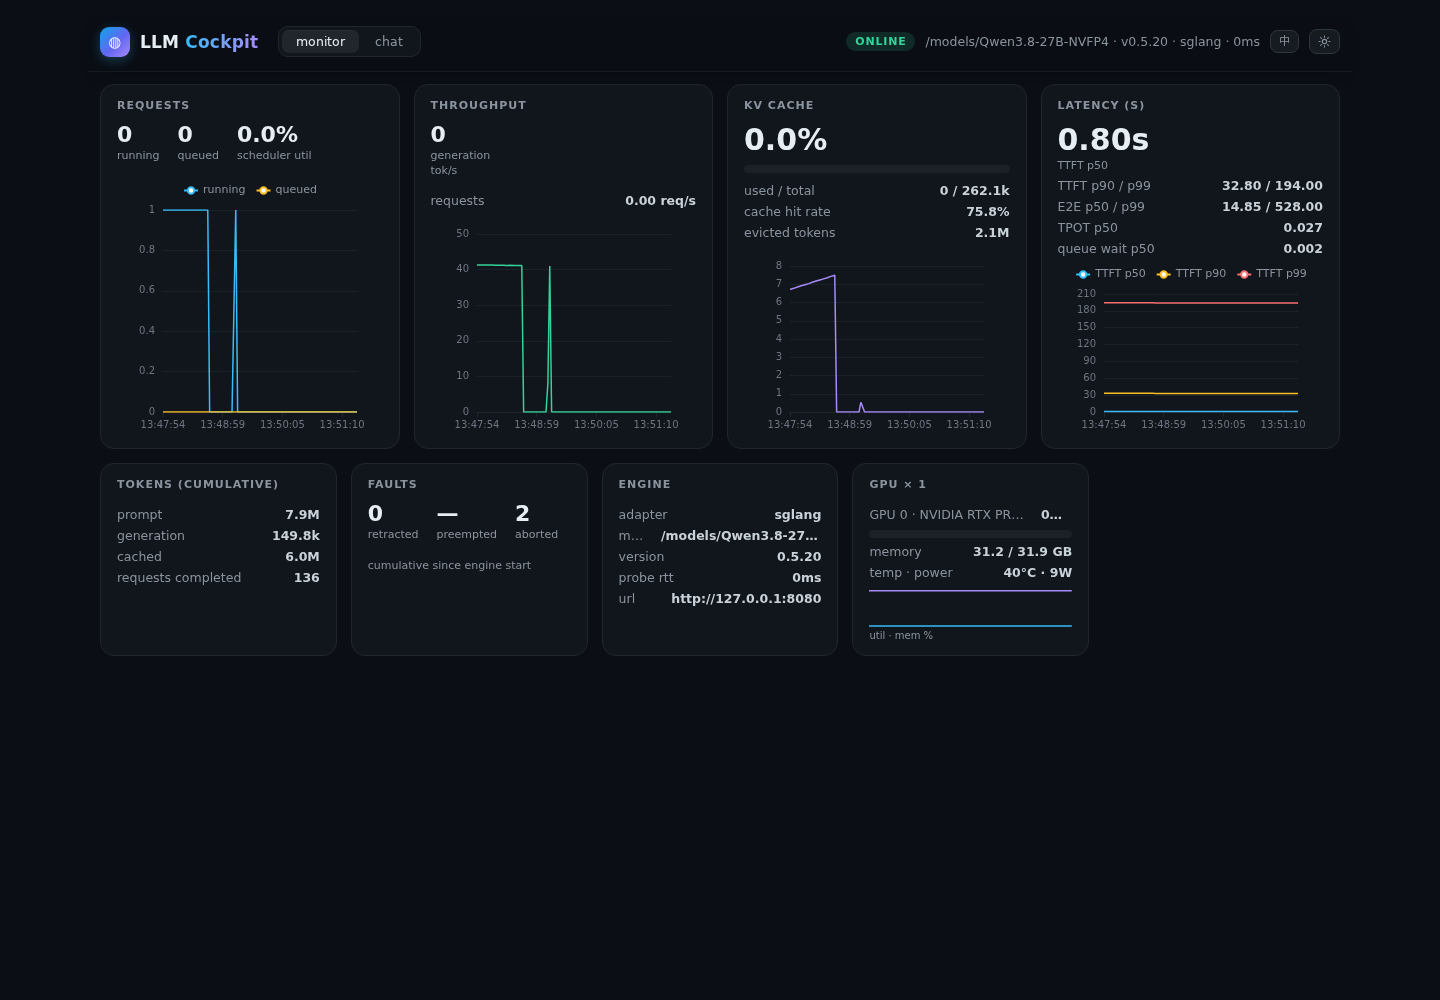
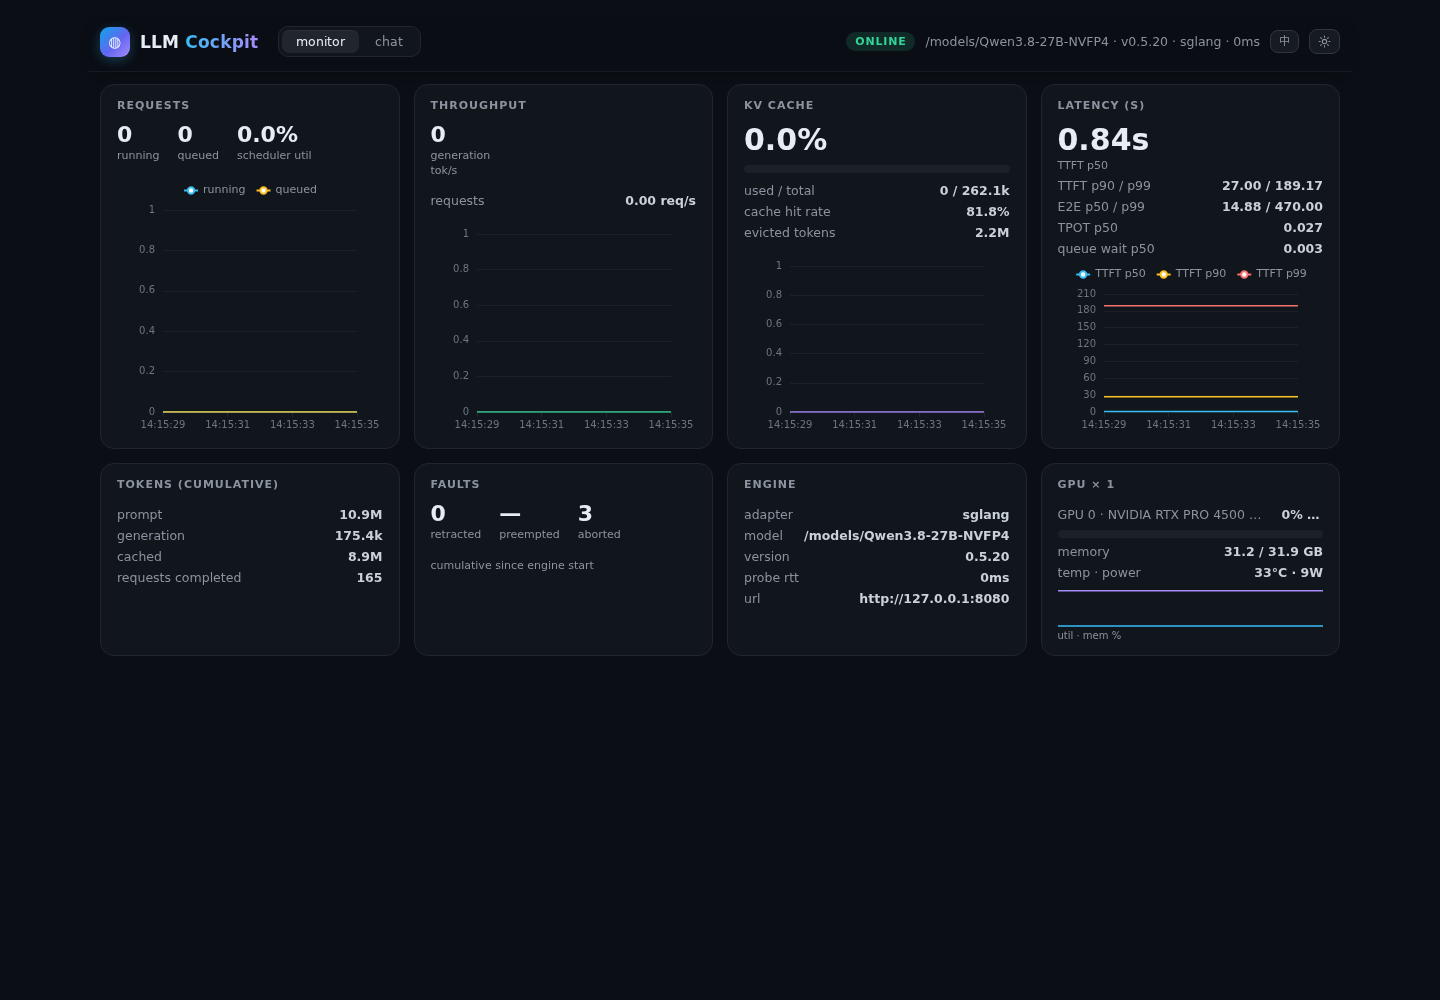
fix(ui): second monitor row uses auto-fit grid — no empty fifth column when the capability-driven extras card is hidden

diff --git a/web/index.html b/web/index.html
@@ -279,14 +279,9 @@
       }
       .grid5 {
         display: grid;
-        grid-template-columns: repeat(5, minmax(0, 1fr));
+        grid-template-columns: repeat(auto-fit, minmax(200px, 1fr));
         gap: 14px;
         margin-bottom: 14px;
-      }
-      @media (max-width: 1100px) {
-        .grid5 {
-          grid-template-columns: repeat(2, minmax(0, 1fr));
-        }
       }
       .gpu-row + .gpu-row {
         margin-top: 12px;

diff --git a/CHANGELOG.md b/CHANGELOG.md
@@ -5,6 +5,12 @@ The format follows [Keep a Changelog](https://keepachangelog.com/en/1.1.0/); thi
 
 ## [Unreleased]
 
+### Fixed
+- Monitor: the second card row used a fixed 5-column grid, so after the extras
+  card became capability-driven (hidden without extras) the row showed 4 cards
+  and an empty fifth column. It is now `auto-fit` — any card count (3 with no
+  GPU, 4 typical, 5 with extras) divides the width evenly.
+
 ## [0.3.0] - 2026-09-19
 
 ### Added
